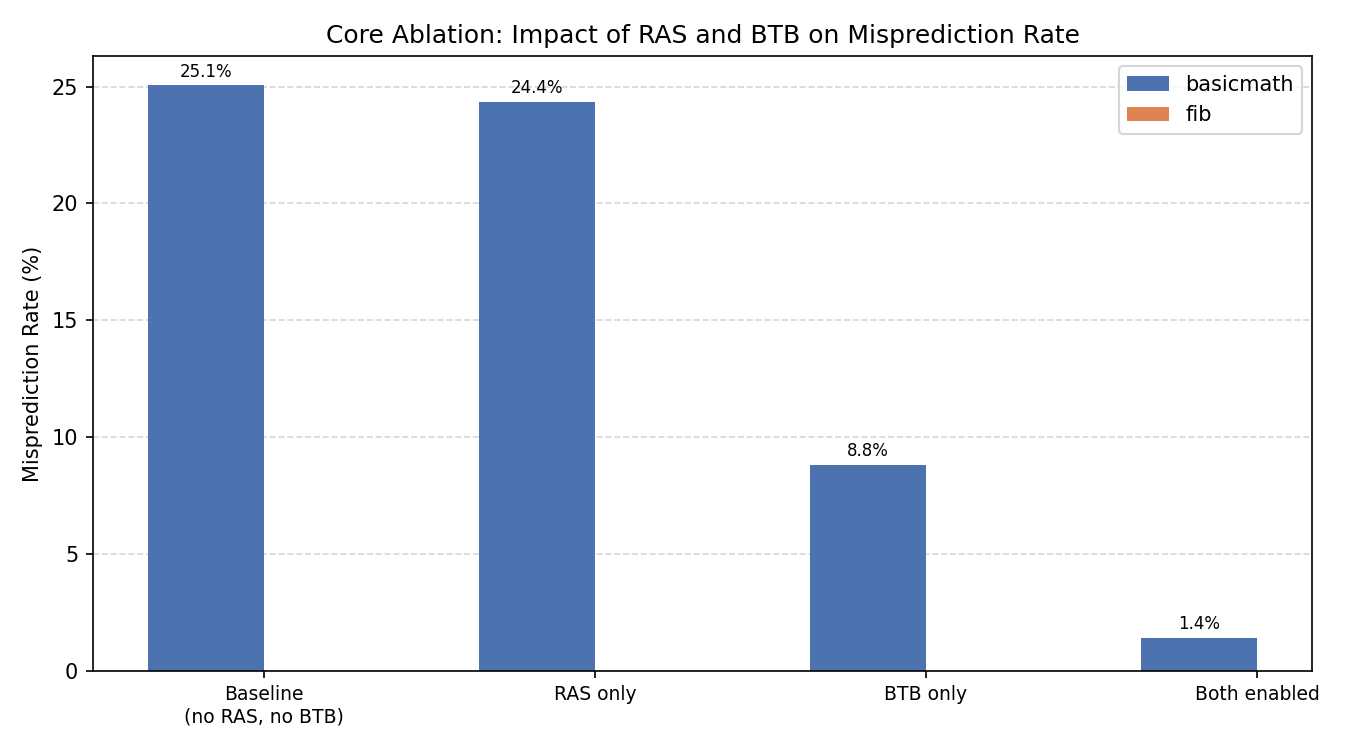
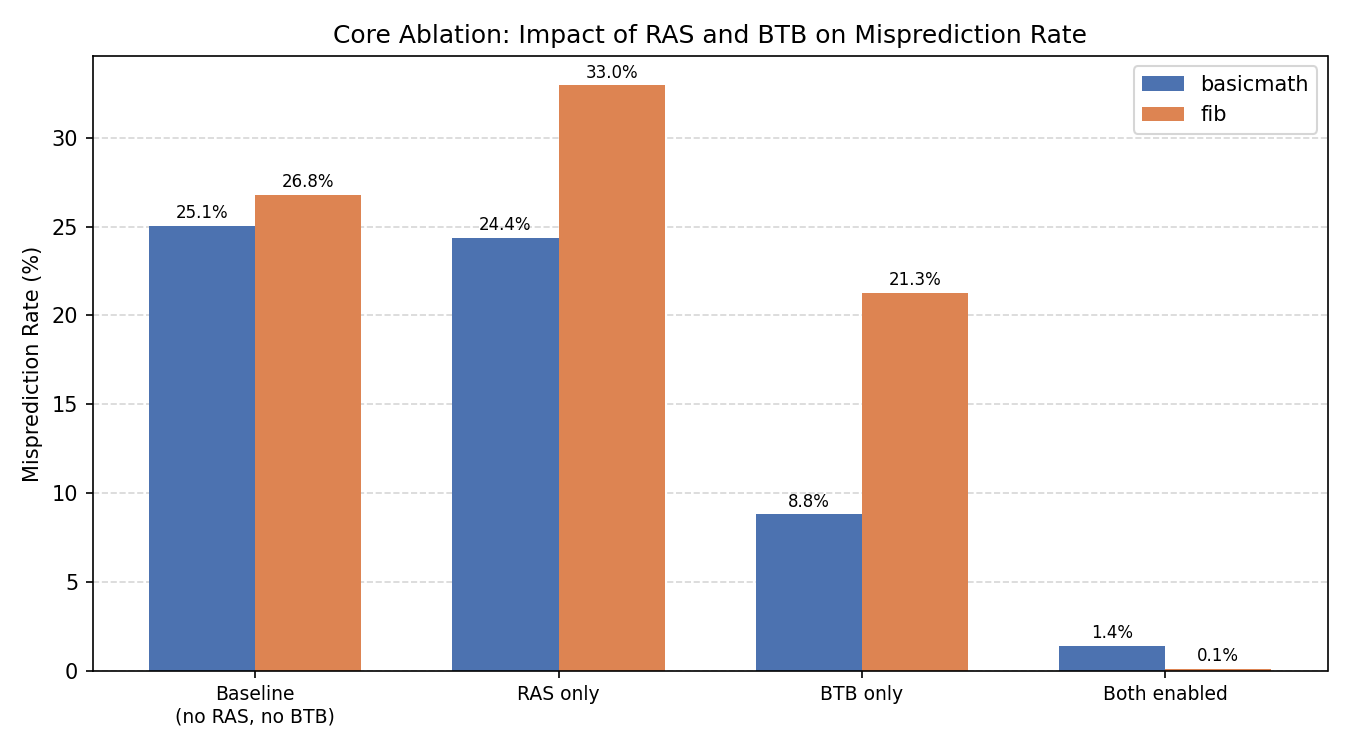
Updated graphs to add fib results and readme

diff --git a/README.md b/README.md
@@ -10,8 +10,8 @@ git clone https://github.com/embecosm/mibench
 
 This will make sure your runtime environment is up-to date and the necessary benchmarks are installed. Once you are done with the above, follow as below:
 
-- In sweep.py , change the GEM5 constant to point to where gem5.opt. If you haven't yet compiled gem5 on your system, make sure to do that first before anything.
-- Also make sure to change outdir on line 45 in sweep.py. This is where all results will be stored. 
+- In sweep.py , change the `GEM5` constant to point to where gem5.opt. If you haven't yet compiled gem5 on your system, make sure to do that first before anything.
+- Also make sure to change `outdir` on line 45 in `sweep.py`. This is where all results will be stored. 
 - Your repo structure should look like:
 ```
 designAnalysis/
@@ -26,7 +26,7 @@ designAnalysis/
 ```
 
 This simulation will take a while to run on most machines. It is recommended to run it within a tmux session. 
-- Just run \'_tmux_\' in the terminal, and if you want to open it again just type \'_tmux attach_\'. This will make sure the script runs uninterrupted.
+- Just run `tmux` in the terminal, and if you want to open it again just type `tmux attach`. This will make sure the script runs uninterrupted.
 
 <br>
 
@@ -39,9 +39,9 @@ chmod +x run_all.sh
 This will run all 30  config permutations; a baseline with everything disabled, different sizes for the Branch Target Buffer and the Return Address Stack, etc. In the end, there will be a total of 30 different configs run. 
 
 Simulation System Info: 
-- CPU - x86O3CPU 1 GHz
-- L1I and L1D - __32KiB, 8 way__
-- L2 (if enabled with ___--l2-cache___ when running evaluate_script.py) - __256 KiB, 8 way__
+- CPU - `x86O3CPU 1 GHz`. This is the most up-to date out-of-order CPU I could test at the time on gem5.
+- L1I and L1D - `32KiB, 8 way`
+- L2 (if enabled with `--l2-cache` when running evaluate_script.py) - `256 KiB, 8 way`
 - The latencies for all these caches can be found (and changed) within evaluate_script.py
 - Note : For the simulations we run here, the L2 cache is not enabled. 
 - Branch Predictor - TAGE()
@@ -53,6 +53,50 @@ Simulation System Info:
 gem5 evaluate_script.py --ras-entries=4096 --btb-entries=4096 --binary="<path_to/mibench/automotive/basicmath/basicmath_small>" --l2-cache
 ```
 
+# Result Analysis
 
-# Result Analysis 
+### We see the below trends when we run the simulations for the `basicmath` and `fib` benchmarks.
 
+## Core Sweeps (RAS and BTB)
+
+Enabling both the RAS and BTB together show the largest IPC gains across both benchmarks.
+For `basicmath`, IPC improves from 0.63 (baseline) to 1.50 (both enabled), a 2.4x speedup.
+For `fib`, the improvement is even more dramatic, going from 0.46 to 1.93, a 4.2x speedup.
+
+The results show that neither component alone is sufficient. With only RAS enabled, `fib` sees
+almost no improvement (0.46 to 0.94) since it relies heavily on the BTB to locate branch targets.
+With only BTB enabled, `basicmath` improves to 1.11 IPC but plateaus without RAS to handle returns.
+
+## BTB Size Sweep
+
+For `basicmath`, IPC scales steadily with BTB size, from 0.75 at 1 entry up to 1.50 at 4096 entries.
+This indicates a large and varied set of branch targets that benefit from a bigger BTB.
+
+For `fib`, IPC jumps almost immediately to its peak of 1.93 with just 16 BTB entries and barely
+changes beyond that. This makes sense since fibonacci has a very small and repetitive branch
+target set that fits in even a tiny BTB.
+
+## RAS Size Sweep
+
+`fib` is highly sensitive to RAS size due to its deeply recursive call structure. IPC climbs
+from 0.64 with no RAS, to 1.64 with 4 entries, 1.87 with 8 entries, and saturates at 1.93
+with 16 entries. This reflects the recursion depth of `fib(35)` -- once the RAS is deep
+enough to cover the call stack, additional entries add no benefit.
+
+`basicmath` is less sensitive to RAS size, reaching near-peak IPC of 1.48 with just 4 entries
+and fully saturating at 8. Its call depth is shallower, so a small RAS is sufficient.
+
+## L2 Cache
+
+Adding an L2 cache produces no measurable IPC change for either benchmark. Both `basicmath`
+and `fib` have small enough working sets to fit entirely within the 32KiB L1 cache, meaning
+L1 miss rates are near zero and L2 is never meaningfully utilized. L2 cache benefits would
+only be visible with memory-intensive workloads whose data exceeds the L1 capacity.
+
+## Key Takeaway
+
+The results highlight that the impact of microarchitectural features is highly workload-dependent.
+A call-heavy recursive workload like `fib` is dominated by RAS and BTB correctness, while a
+branch-heavy iterative workload like `basicmath` benefits more gradually from BTB capacity.
+Disabling either structure hurts performance significantly, but the marginal contribution of
+each depends on the execution profile of the workload.
